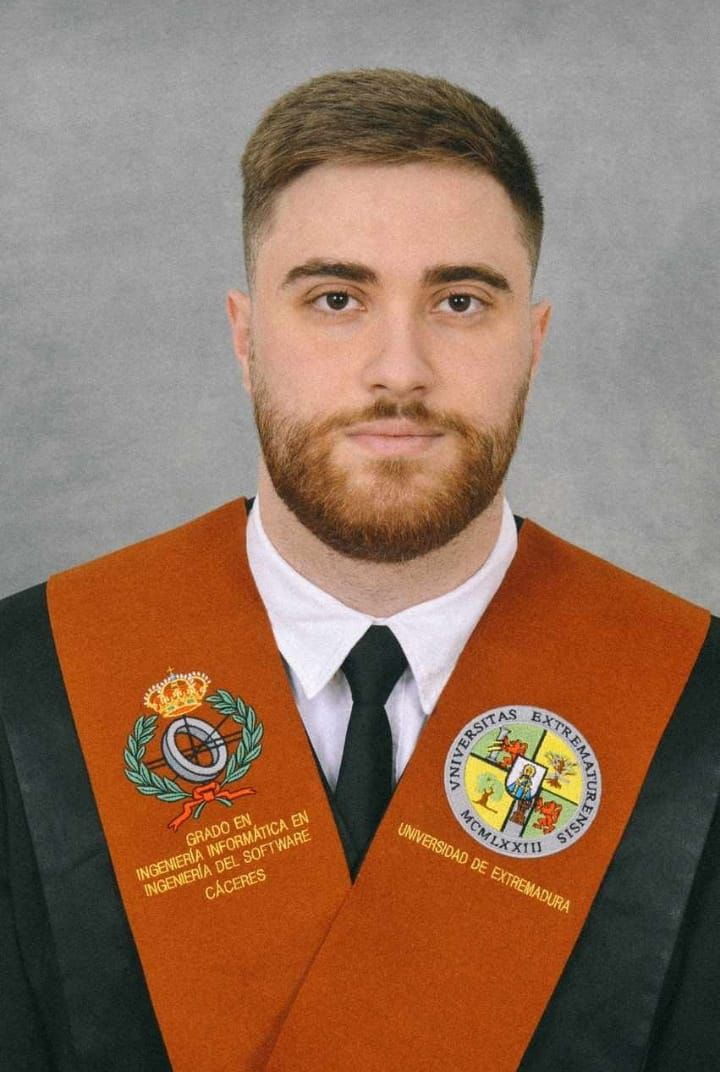
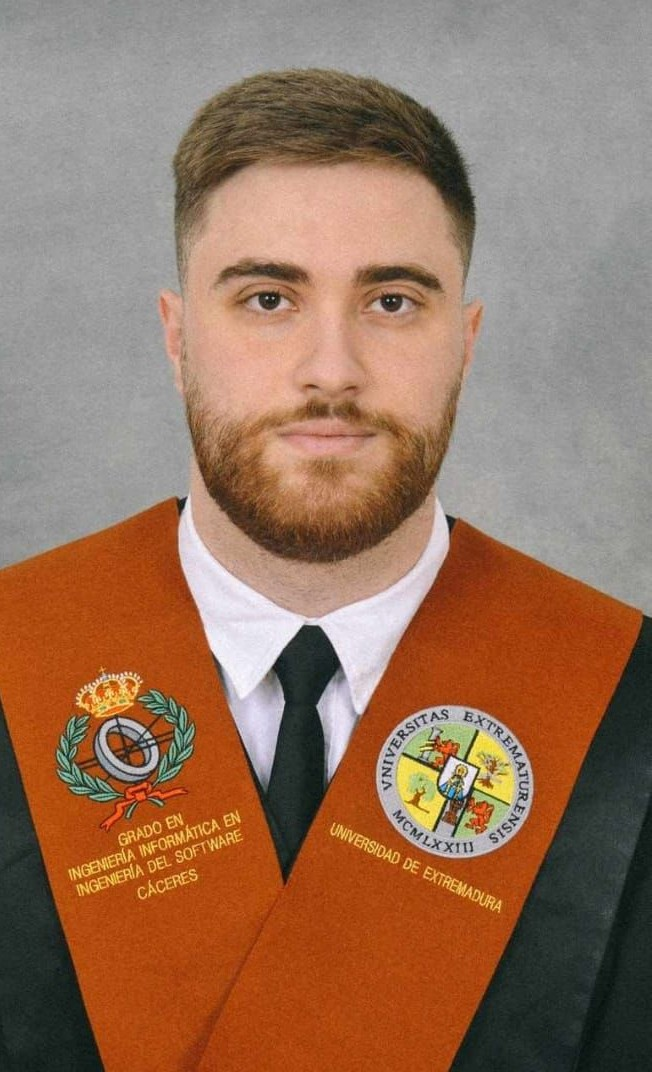
Arreglo imagen

diff --git a/styles.css b/styles.css
@@ -272,7 +272,7 @@ body {
 .profile-photo {
     width: 100%;
     height: 100%;
-    object-fit: fill;
+    object-fit: cover;
     border-radius: 50%;
     border: 4px solid #044348;
     box-shadow: 0 0 30px rgba(4, 67, 72, 0.3);
@@ -1400,8 +1400,8 @@ body.loaded * {
     }
     
     .hero-image {
-        width: 250px;
-        height: 250px;
+        width: 280px;
+        height: 280px;
     }
     
     .hero-title {
@@ -1553,8 +1553,7 @@ body.loaded * {
     }
     
     .hero-image {
-        width: 200px;
-        height: 200px;
+        display: none;
     }
     
     .hero-subtitle {
